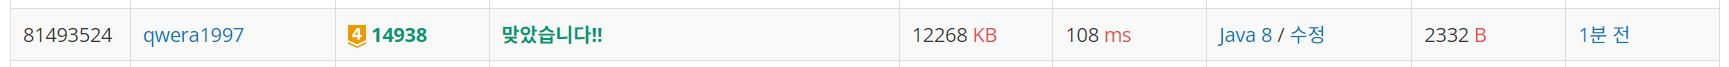
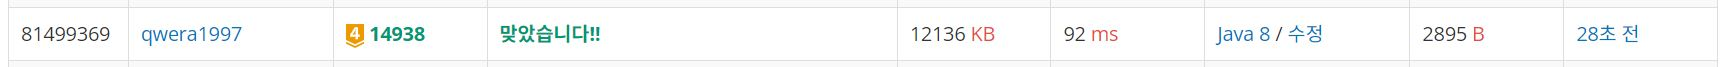
2024 07 24 home

diff --git a/month_07/src/day_24/BOJ_G4_21940_Fail/Main.java b/month_07/src/day_24/BOJ_G4_21940_Fail/Main.java
@@ -1,0 +1,81 @@
+package day_24.BOJ_G4_21940_Fail;
+
+import java.io.*;
+import java.util.*;
+
+public class Main {
+
+    static final int INF = 1_000_000_000;
+
+    public static void main(String[] args) throws IOException {
+        BufferedReader br = new BufferedReader(new InputStreamReader(System.in));
+        BufferedWriter bw = new BufferedWriter(new OutputStreamWriter(System.out));
+        StringBuilder sb = new StringBuilder();
+        StringTokenizer st = new StringTokenizer(br.readLine());
+
+        int N = Integer.parseInt(st.nextToken());
+        int M = Integer.parseInt(st.nextToken());
+
+        int[][] dp = new int[1+N][1+N];
+        for(int i=1 ; i<=N ; i++){
+            Arrays.fill(dp[i], INF);
+            dp[i][i] = 0;
+        }
+
+        for(int i=0 ; i<M ; i++){
+            st = new StringTokenizer(br.readLine());
+
+            int a = Integer.parseInt(st.nextToken());
+            int b = Integer.parseInt(st.nextToken());
+            int t = Integer.parseInt(st.nextToken());
+
+            dp[a][b] = t;
+        }
+
+        for(int k=1 ; k<=N ; k++){
+            for(int i=1 ; i<=N ; i++){
+                for(int j=1 ; j<=N ; j++){
+                    dp[i][j] = Math.min(dp[i][j], dp[i][k] + dp[k][j]);
+                }
+            }
+        }
+
+        int K = Integer.parseInt(br.readLine());
+        int[] arr = new int[1+K];
+
+        st = new StringTokenizer(br.readLine());
+        for(int i=1 ; i<=K ; i++){
+            arr[i] = Integer.parseInt(st.nextToken());
+        }
+
+        int[] sumArr = new int[1+N];
+        int min = INF;
+
+        for(int i=1 ; i<=N ; i++){
+            for(int j=1 ; j<=K ; j++){
+                sumArr[i] += dp[i][j] + dp[j][i];
+            }
+
+            min = Math.min(min, sumArr[i]);
+        }
+
+        for(int i=1 ; i<=N ; i++){
+            if(sumArr[i] == min){
+                sb.append(i).append(" ");
+            }
+        }
+
+        for(int i=1 ; i<=N ; i++){
+            for(int j=1 ; j<=N ; j++){
+                System.out.print(dp[i][j] + " ");
+            }
+            System.out.println();
+        }
+        System.out.println();
+        System.out.println(Arrays.toString(sumArr));
+
+        bw.write(sb.toString());
+        bw.flush();
+        bw.close();
+    }
+}

diff --git a/month_07/src/day_24/BOJ_B3_10810/Main.java b/month_07/src/day_24/BOJ_B3_10810/Main.java
@@ -1,0 +1,38 @@
+package day_24.BOJ_B3_10810;
+
+import java.io.*;
+import java.util.StringTokenizer;
+
+public class Main {
+    public static void main(String[] args) throws IOException {
+        BufferedReader br = new BufferedReader(new InputStreamReader(System.in));
+        BufferedWriter bw = new BufferedWriter(new OutputStreamWriter(System.out));
+        StringBuilder sb = new StringBuilder();
+        StringTokenizer st = new StringTokenizer(br.readLine());
+
+        int N = Integer.parseInt(st.nextToken());
+        int M = Integer.parseInt(st.nextToken());
+
+        int[] arr = new int[1+N];
+
+        for(int i=0 ; i<M ; i++){
+            st = new StringTokenizer(br.readLine());
+
+            int a = Integer.parseInt(st.nextToken());
+            int b = Integer.parseInt(st.nextToken());
+            int n = Integer.parseInt(st.nextToken());
+
+            for(int j=a ; j<=b ; j++){
+                arr[j] = n;
+            }
+        }
+
+        for(int i=1 ; i<=N ; i++){
+            sb.append(arr[i]).append(" ");
+        }
+
+        bw.write(sb.toString());
+        bw.flush();
+        bw.close();
+    }
+}
